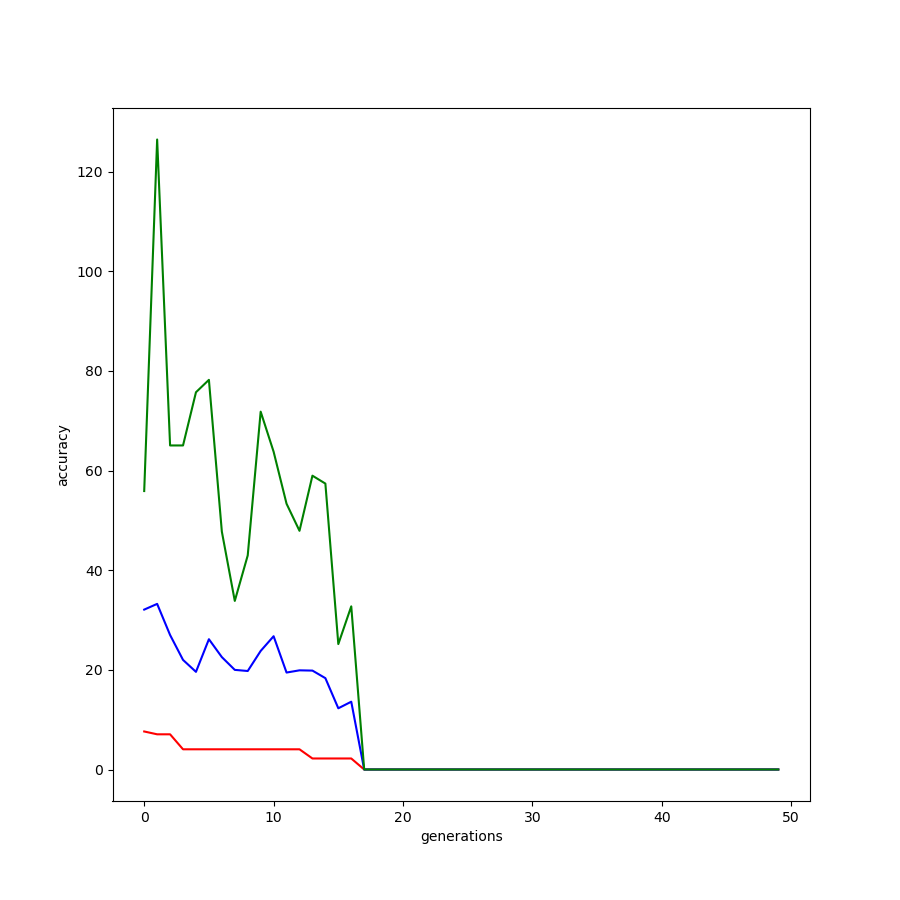
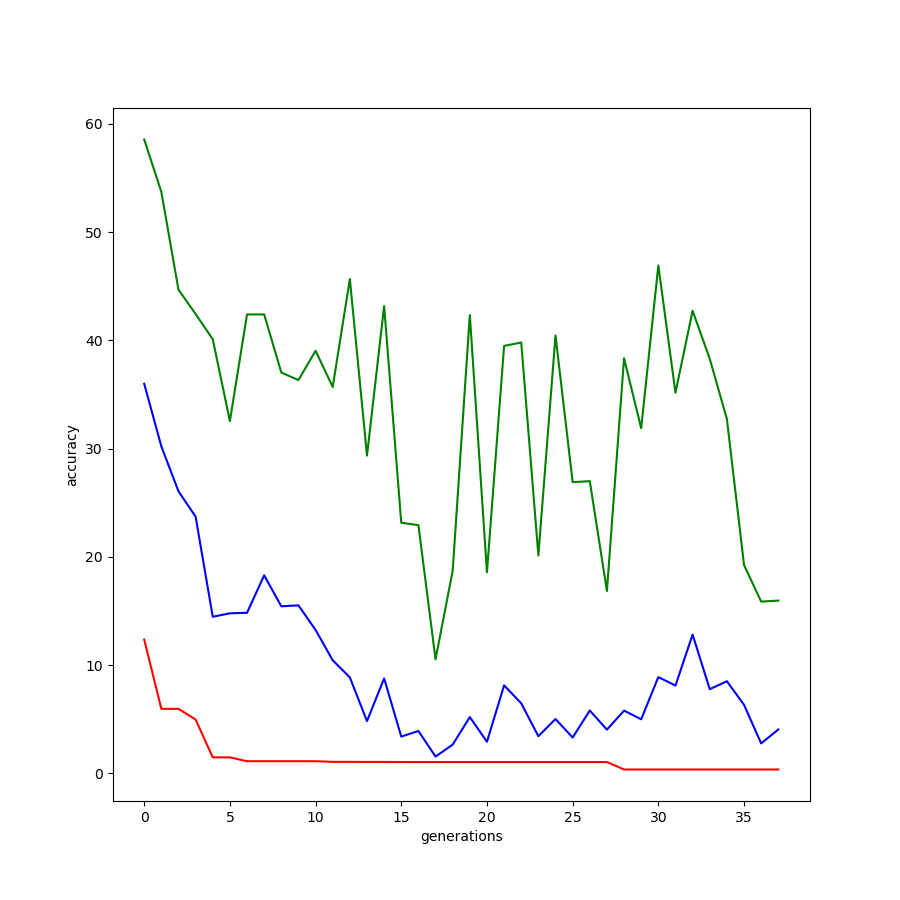
updated version of ga

diff --git a/project_1_ga/genetic_algorithm.py b/project_1_ga/genetic_algorithm.py
@@ -150,8 +150,8 @@ class GeneticAlgorithm:
                 child_1 = copy.deepcopy(self.population[i])
                 child_2 = copy.deepcopy(self.population[i+1])
 
-                first_cross_point = random.randint(0,self.dimensions)
-                second_cross_point = random.randint(0,self.dimensions)
+                first_cross_point = random.randint(0,self.dimensions-1)
+                second_cross_point = random.randint(0,self.dimensions-1)
                 # did we get the same point? have to deal with that
                 if( first_cross_point == second_cross_point ):
                     first_cross_point = 0
@@ -248,15 +248,18 @@ class GeneticAlgorithm:
                     if random.random() <= self.mutation_rate_genes:
                         # Gaussian
                         if self.mutation_type == "gaussian":
-                            chromosome.genes[j] = chromosome.genes[j] + np.random.normal(loc=chromosome.genes[j], scale=1, size=1).tolist()[0]
+                            chromosome.genes[j] = chromosome.genes[j] + np.random.normal(loc=0, scale=1, size=1).tolist()[0]
                         
                         # Uniform
                         if self.mutation_type == "uniform":
-                            chromosome.genes[j] = chromosome.genes[j] + np.random.uniform(low=chromosome.genes[j] - 2, high=chromosome.genes[j] + 2, size=1).tolist()[0]
+                            chromosome.genes[j] = chromosome.genes[j] + np.random.uniform(low=-2, high=2, size=1).tolist()[0]
 
                         # Swap
-                        if self.mutation_type == "swap" and j < self.dimensions - 1:
-                            chromosome.genes[j], chromosome.genes[j+1] = chromosome.genes[j+1], chromosome.genes[j]
+                        if self.mutation_type == "swap":
+                            if j < self.dimensions - 1:
+                                chromosome.genes[j], chromosome.genes[j+1] = chromosome.genes[j+1], chromosome.genes[j]
+                            else:
+                                chromosome.genes[j], chromosome.genes[0] = chromosome.genes[0], chromosome.genes[j]
                             
 
             population_nextgen.append(copy.deepcopy(chromosome))
@@ -267,9 +270,12 @@ class GeneticAlgorithm:
     # Generations
     def run_generations(self) -> None:
         self.best_chromo = []
-        self.stats_min = np.zeros(self.generations)
-        self.stats_max = np.zeros(self.generations)
-        self.stats_avg = np.zeros(self.generations)
+        # self.stats_min = np.zeros(self.generations)
+        # self.stats_max = np.zeros(self.generations)
+        # self.stats_avg = np.zeros(self.generations)
+        self.stats_min = []
+        self.stats_max = []
+        self.stats_avg = []
 
         self.population_initialization()
         
@@ -286,9 +292,12 @@ class GeneticAlgorithm:
 
                 scores = [x.fitness_score for x in self.population]
 
-                self.stats_min[i] = np.min(scores)
-                self.stats_max[i] = np.amax(scores)
-                self.stats_avg[i] = np.mean(scores)
+                # self.stats_min[i] = np.min(scores)
+                # self.stats_max[i] = np.amax(scores)
+                # self.stats_avg[i] = np.mean(scores)
+                self.stats_min.append(np.min(scores))
+                self.stats_max.append(np.amax(scores))
+                self.stats_avg.append(np.mean(scores))
 
                 self.next_generation_selection()
                 self.crossover()
@@ -310,18 +319,24 @@ class GeneticAlgorithm:
 
                 scores = [x.fitness_score for x in self.population]
 
-                self.stats_min[i] = np.min(scores)
-                self.stats_max[i] = np.amax(scores)
-                self.stats_avg[i] = np.mean(scores)
+                # self.stats_min[i] = np.min(scores)
+                # self.stats_max[i] = np.amax(scores)
+                # self.stats_avg[i] = np.mean(scores)
+                self.stats_min.append(np.min(scores))
+                self.stats_max.append(np.amax(scores))
+                self.stats_avg.append(np.mean(scores))
 
                 # Check if convergence is met
                 if i > min_convergence_generations:
                     # best_fitness_std = np.std(self.stats_avg[-min_convergence_generations:])
-                    avg_fitness_avg = np.mean(self.stats_avg[-min_convergence_generations:])
+                    avg_fitness_avg = np.mean(self.stats_min[-min_convergence_generations:])
 
                     # if best_fitness_std < convergence_threshold:
                     if avg_fitness_avg < avg_convergence_threshold:
                         break
+
+                if i > 500:
+                    break
 
                 self.next_generation_selection()
                 self.crossover()

diff --git a/project_1_ga/project_genetic_algorithm.py b/project_1_ga/project_genetic_algorithm.py
@@ -13,8 +13,8 @@ from tqdm import tqdm
 
 
 def main():
-    # run_genetic_algorithms(dimensions = 2)
-    run_single_genetic_algorithm()
+    run_genetic_algorithms(dimensions = 2)
+    # run_single_genetic_algorithm()
 
 def run_single_genetic_algorithm() -> None:
     generations = 50
